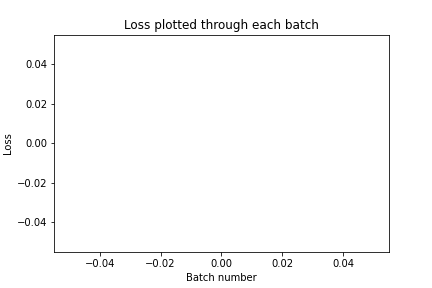
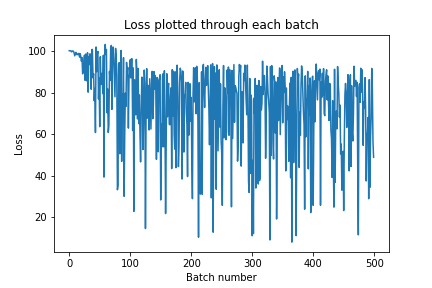
lstm can now predict properly on variable length sequences

diff --git a/data_generator.py b/data_generator.py
@@ -40,9 +40,11 @@ class Dataset(data.Dataset):
         return len(self.data)
 
     def __prepare_seq__(self, seq):
+        valid_elems = min(len(seq)+1, self.max_seq_len)
         seq = str(seq).ljust(self.max_seq_len+1, '-')
         temp_seq = [self.acid_dict[x] for x in seq]
         tensor_seq = torch.stack(temp_seq[:-1]).float()
+        #valid_elems = torch.Tensor([elem != '-' for elem in seq[:-1]])
 
         # Labels consisting of the raw tensor
         # labels_seq = torch.stack(temp_seq[1:]).long()
@@ -53,8 +55,12 @@ class Dataset(data.Dataset):
         # Labels consisting of the index of correct class
         labels_seq = torch.argmax(torch.stack(temp_seq[1:]), dim=1).long()
 
+        #print(labels_seq.size())
+        #print(tensor_seq.size())
+        #labels_seq = torch.transpose(labels_seq, 0, 1)
+        #tensor_seq = torch.transpose(tensor_seq, 0, 1)
         #print("Seq shape:", tensor_seq[1:].size())
-        return tensor_seq, labels_seq
+        return tensor_seq, labels_seq, valid_elems
 
     def __getitem__(self, index):
         return self.__prepare_seq__(self.data[index])
